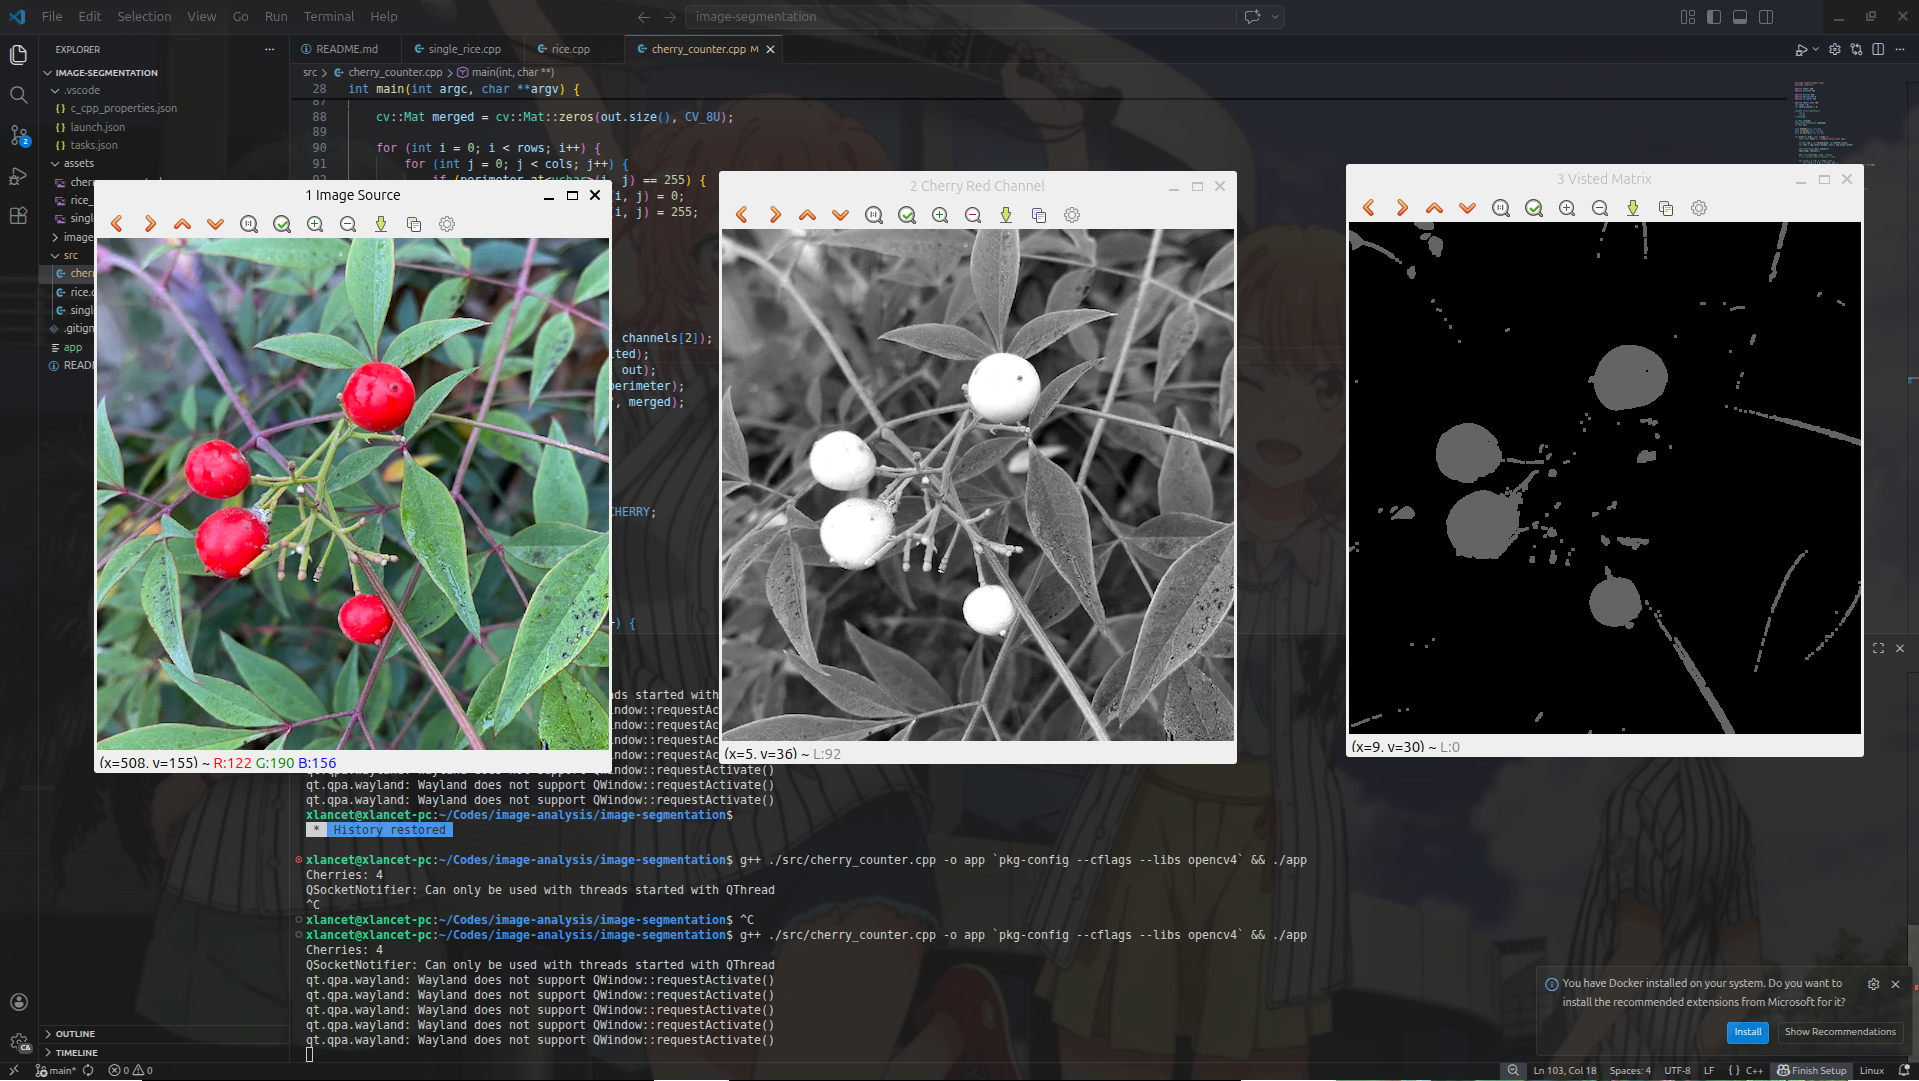
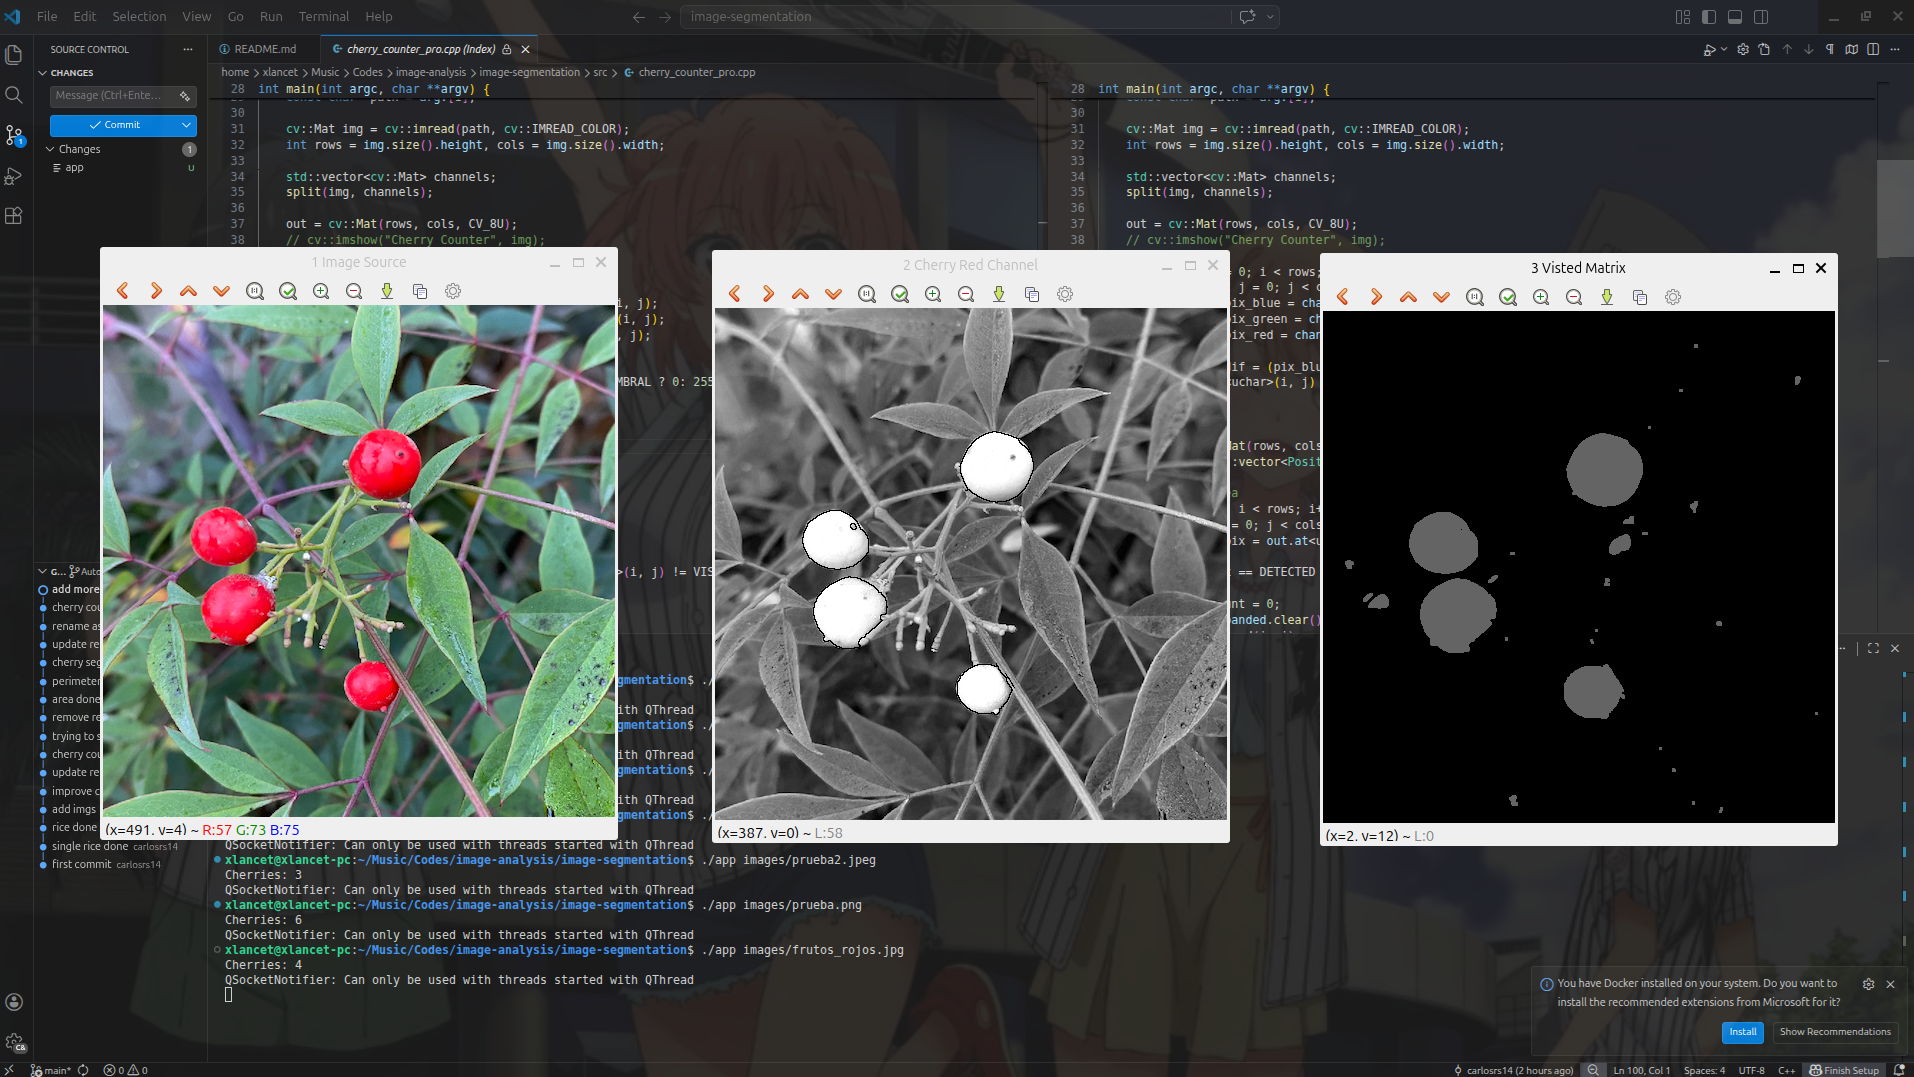
add more examples

diff --git a/src/cherry_counter_pro.cpp b/src/cherry_counter_pro.cpp
@@ -97,6 +97,7 @@ int main(int argc, char **argv) {
             if (perimeter.at<uchar>(i, j) == 255) {
                 channels[0].at<uchar>(i, j) = 0;                
                 channels[1].at<uchar>(i, j) = 255;                
+                channels[2].at<uchar>(i, j) = 0;                
             }
         }
     }

diff --git a/README.md b/README.md
@@ -11,5 +11,12 @@ Repository featuring image segmentation implementations in C++ using OpenCV, foc
 ![Rice Result](assets/rice_out.png)
 
 ### Cherry Segmentation
-![Cherries Result part I](assets/cherry_segmented_1.png)
+#### Example 1
+![Cherries Result 1 part I](assets/cherry_segmented_1.png)
 ![Cherries Result part II](assets/cherry_segmented_2.png)
+
+#### Example 2
+![Cherries Result 2](assets/cherry_2.png)
+#### Example 3
+![Cherries Result 3](assets/cherry_3.png)
+
